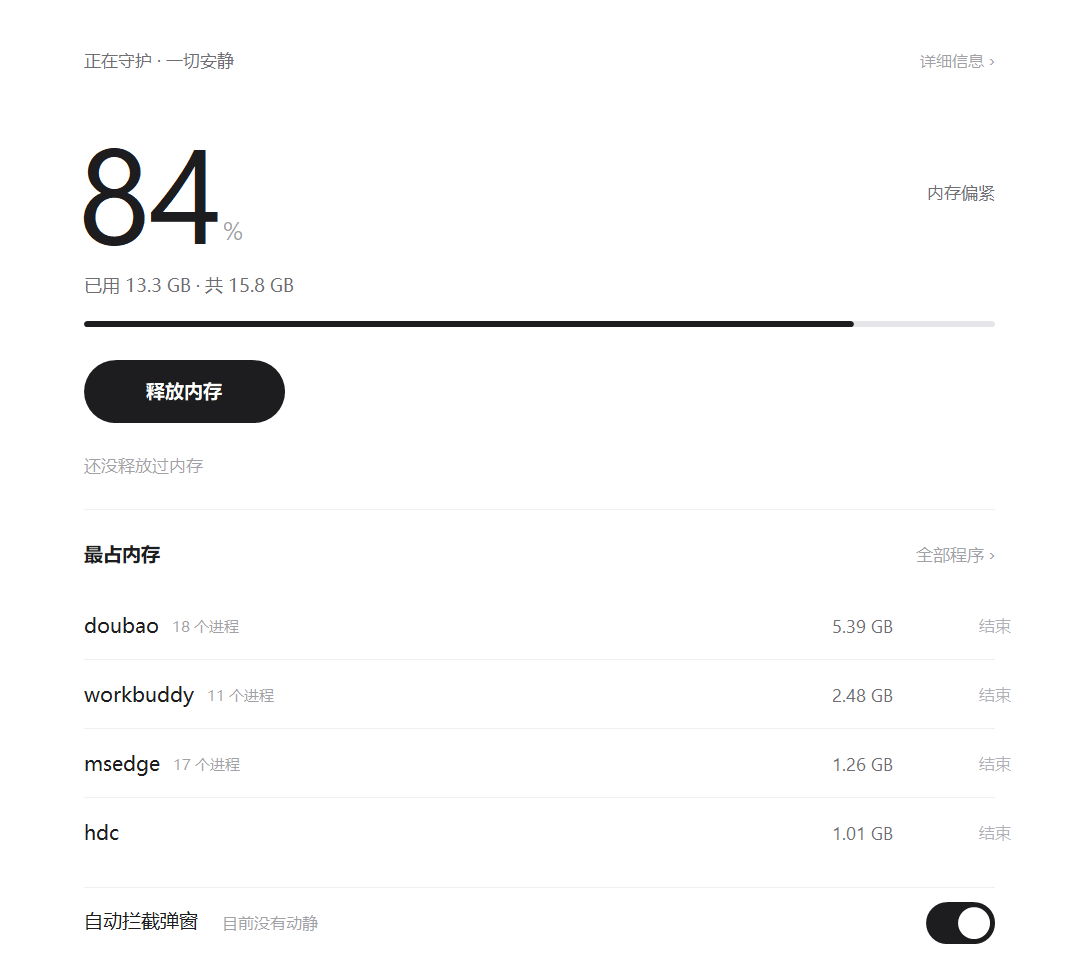
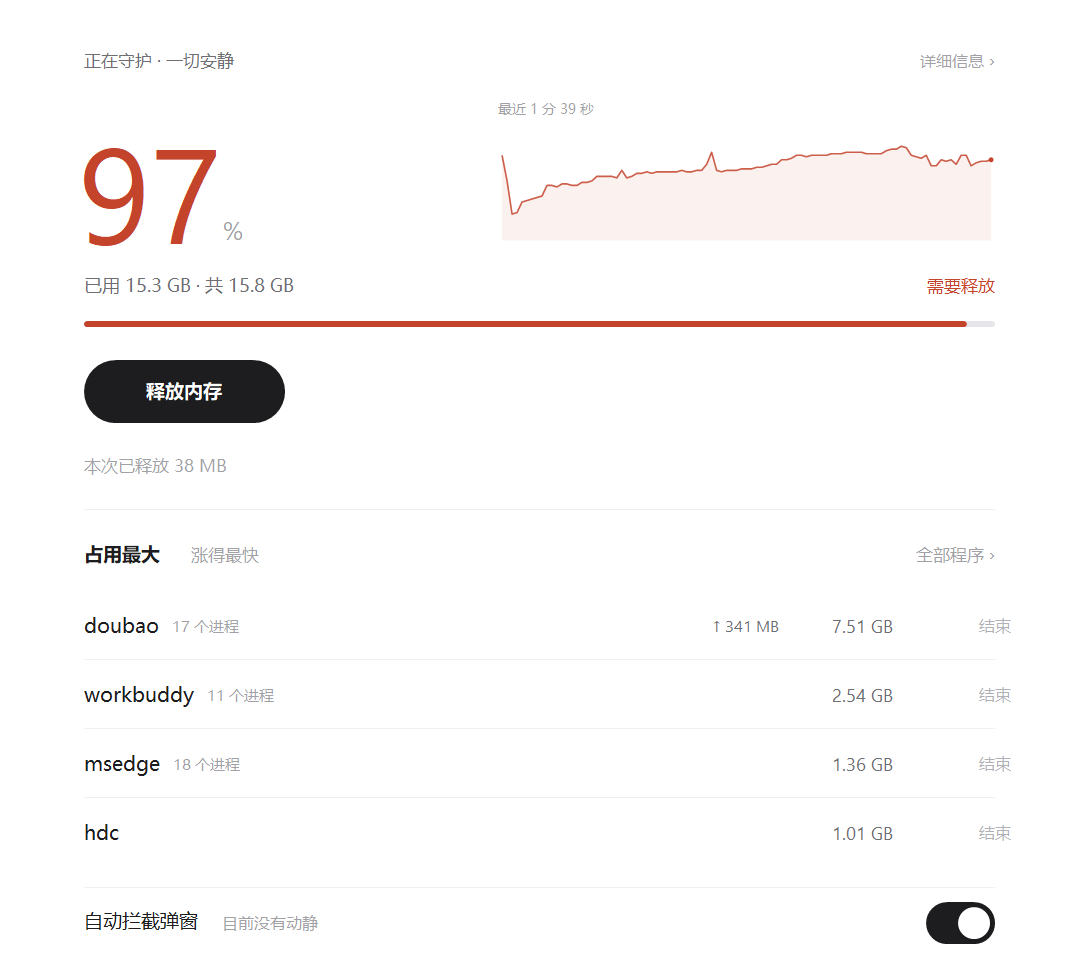
主界面加入内存走势与程序增量
- 大数字右侧新增最近 5 分钟走势图（GDI+ 折线 + 淡填充 + 末端点），
  采样队列从 90 个点扩到 300 个（每秒一个），不满 5 分钟时标签如实显示已采时长
- 每 30 秒记录一次各程序占用，算出 5 分钟内增量；涨超 100 MB 的行标出「↑」，
  超过 500 MB 转砖红
- 程序列表标题改为「占用最大 / 涨得最快」两个可点选项，后者按增量排序
- 走势图不走图片缓存（数据每秒都在变，会挤掉按钮等固定图）

diff --git a/memory_guard.py b/memory_guard.py
@@ -881,6 +881,7 @@ if _gpdll is not None:
     _sig("GdipSetCompositingMode", [_VOIDP, ctypes.c_int])
     _sig("GdipCreatePath", [ctypes.c_int, _OUTP])
     _sig("GdipAddPathArc", [_VOIDP] + [_REAL] * 6)
+    _sig("GdipAddPathLine", [_VOIDP] + [_REAL] * 4)
     _sig("GdipAddPathRectangle", [_VOIDP] + [_REAL] * 4)
     _sig("GdipClosePathFigure", [_VOIDP])
     _sig("GdipDeletePath", [_VOIDP])
@@ -1007,6 +1008,21 @@ def _aa(w, h, bg, paint, key):
     return img
 
 
+def _aa_free(w, h, bg, paint):
+    """不走缓存的一张图。
+
+    走势曲线每秒都在变，塞进 LRU 只会把按钮、开关那些固定图挤出去，
+    所以曲线自己拿着引用，画完就换新的。
+    """
+    rows = _gp_rows(w, h, bg, paint)
+    if not rows:
+        return None
+    try:
+        return tk.PhotoImage(data=base64.b64encode(_png_rgb(w, h, rows)).decode("ascii"))
+    except Exception:
+        return None
+
+
 def _round_path(x, y, w, h, r):
     """四段 90° 圆弧拼出的圆角矩形，半径自动收敛到短边一半。"""
     if r * 2 > min(w, h):
@@ -1050,6 +1066,72 @@ def _stroke_round(gfx, x, y, w, h, r, color, width):
         _GPF["GdipDrawPath"](gfx, pen, path)
         _GPF["GdipDeletePen"](pen)
     _GPF["GdipDeletePath"](path)
+
+
+def _path_new():
+    p = ctypes.c_void_p()
+    if _GPF["GdipCreatePath"](0, ctypes.byref(p)) != 0:
+        return None
+    return p
+
+
+def _spark(gfx, w, h, vals, lo, hi, color, pen_w=1.6, slots=None):
+    """走势折线：极淡的面积 + 一条线 + 末端一个点。
+
+    vals 按时间从旧到新；y 轴范围由调用方给定（lo..hi），
+    这样同一条曲线在两张图之间可比——自动拉伸会把 3% 的波动画成悬崖。
+
+    slots 是完整窗口的格数。刚启动时只有几个点，按格数排到最右边，
+    曲线会随着时间从右往左长出来，而不是把 3 个点拉满整幅、假装已经采了 5 分钟。
+    """
+    n = len(vals)
+    if n < 2 or hi <= lo:
+        return
+    dot = max(1.6, pen_w * 1.5)
+    pad_x = dot + 1.5                       # 末端圆点要留出半径，否则被图边裁掉
+    pad_y = pen_w + 1.0
+    bottom = h - pad_y
+    top = pad_y
+    span = hi - lo
+    slots = max(n, int(slots or n))
+    x0 = pad_x + (w - 2 * pad_x) * (slots - n) / max(1, slots - 1)
+    step = (w - 2 * pad_x) / max(1, slots - 1)
+    pts = []
+    for i, v in enumerate(vals):
+        x = x0 + step * i
+        y = bottom - (min(max(v, lo), hi) - lo) / span * (bottom - top)
+        pts.append((x, y))
+
+    # 面积：从左下起、沿折线上行、落到右下闭合
+    area = _path_new()
+    if area is not None:
+        _GPF["GdipAddPathLine"](area, pts[0][0], bottom, pts[0][0], pts[0][1])
+        for (xa, ya), (xb, yb) in zip(pts, pts[1:]):
+            _GPF["GdipAddPathLine"](area, xa, ya, xb, yb)
+        _GPF["GdipAddPathLine"](area, pts[-1][0], pts[-1][1], pts[-1][0], bottom)
+        _GPF["GdipClosePathFigure"](area)
+        brush = ctypes.c_void_p()
+        if _GPF["GdipCreateSolidFill"](_argb(color, 18),
+                                       ctypes.byref(brush)) == 0:
+            _GPF["GdipFillPath"](gfx, brush, area)
+            _GPF["GdipDeleteBrush"](brush)
+        _GPF["GdipDeletePath"](area)
+
+    line = _path_new()
+    if line is None:
+        return
+    for (xa, ya), (xb, yb) in zip(pts, pts[1:]):
+        _GPF["GdipAddPathLine"](line, xa, ya, xb, yb)
+    pen = ctypes.c_void_p()
+    if _GPF["GdipCreatePen1"](_argb(color, 215), float(pen_w), 2,
+                              ctypes.byref(pen)) == 0:
+        _GPF["GdipSetPenLineJoin"](pen, 2)
+        _GPF["GdipDrawPath"](gfx, pen, line)
+        _GPF["GdipDeletePen"](pen)
+    _GPF["GdipDeletePath"](line)
+
+    _fill_round(gfx, pts[-1][0] - dot, pts[-1][1] - dot, 2 * dot, 2 * dot,
+                dot, color)
 
 
 # ---------------------------------------------------------------- 圆角控件
@@ -1341,7 +1423,14 @@ class GuardApp:
         self.cfg = load_config()
         self.self_pid = os.getpid()
         self.q: queue.Queue = queue.Queue()
-        self.history = collections.deque([0.0] * 90, maxlen=90)
+        # 每秒一个点，300 个正好 5 分钟
+        self.history = collections.deque([0.0] * 300, maxlen=300)
+        self._hist_n = 0                  # 已经采到的真实样本数（前面都是占位 0）
+        self._groups: list[dict] = []     # 全部程序，未截断
+        self._priv_hist: dict = {}        # 程序名 -> deque[(时刻, MB)]
+        self.sort_mode = "size"           # size = 占用最大，grow = 涨得最快
+        self._sort_boxes: list = []
+        self._spark_img = None
         self.procs: list[dict] = []
         self.stats = {"killed": 0, "freed_mb": 0.0}
         self.logs = collections.deque(maxlen=600)
@@ -1455,6 +1544,7 @@ class GuardApp:
     def _on_tick(self, msg):
         self.mem = msg["mem"]
         self.history.append(self.mem["percent"])
+        self._hist_n = min(self._hist_n + 1, self.history.maxlen or 90)
         self.stats = msg.get("stats", self.stats)
         if msg.get("procs") is not None:
             self._all_procs = msg["procs"]
@@ -1465,10 +1555,46 @@ class GuardApp:
                 g = groups.setdefault(p["name"], {"name": p["name"], "priv": 0, "pids": []})
                 g["priv"] += p["priv"]
                 g["pids"].append(p["pid"])
-            self.procs = sorted(groups.values(), key=lambda g: g["priv"], reverse=True)[:4]
+            self._groups = list(groups.values())
+            self._track_growth(time.time())
+            self._resort()
         self.draw()
         if self.adv is not None:
             self._refresh_advanced()
+
+    GROW_WIN = 300.0        # 看最近 5 分钟
+    GROW_STEP = 30.0        # 每 30 秒记一个点
+
+    def _track_growth(self, now):
+        """给每个程序记一条内存时间线，算出窗口内的增量。
+
+        只存 14 个点、每个 30 秒，占不了多少内存；退出的程序立刻清掉。
+        """
+        hist = self._priv_hist
+        for g in self._groups:
+            d = hist.get(g["name"])
+            if d is None:
+                d = hist[g["name"]] = collections.deque(maxlen=14)
+            mb = g["priv"] / 1048576.0
+            if not d or now - d[-1][0] >= self.GROW_STEP:
+                d.append((now, mb))
+            while len(d) > 1 and now - d[0][0] > self.GROW_WIN:
+                d.popleft()
+            first = d[0] if d else None
+            # 观察不足 1 分钟不给结论，否则程序刚启动时的抖动会被读成「暴涨」
+            g["grow"] = (mb - first[1]) if (first and now - first[0] >= 60) else 0.0
+        alive = {g["name"] for g in self._groups}
+        for name in [k for k in hist if k not in alive]:
+            hist.pop(name, None)
+
+    def _resort(self):
+        if self.sort_mode == "grow":
+            rows = sorted(self._groups,
+                          key=lambda g: (g.get("grow", 0.0), g["priv"]),
+                          reverse=True)
+        else:
+            rows = sorted(self._groups, key=lambda g: g["priv"], reverse=True)
+        self.procs = rows[:4]
 
     def _tick_ui(self):
         self.draw()
@@ -1528,8 +1654,36 @@ class GuardApp:
         cv.create_text(self.sz(L) + wn - self.sz(3), self.sz(153), text="%",
                        anchor="w", fill=FAINT, font=self.fnum(17))
 
+        # ---------------- 最近 5 分钟走势：大数字右边那块空白正好放下
+        data = list(self.history)[-self._hist_n:] if self._hist_n >= 3 else []
+        if data:
+            lo, hi = min(data), max(data)
+            if hi - lo < 8:                 # 太平就撑到 8 个点，别把噪声画成悬崖
+                mid = (hi + lo) / 2.0
+                lo, hi = mid - 4, mid + 4
+            else:
+                lo, hi = lo - 1, hi + 1
+            lo, hi = max(0.0, lo), min(100.0, hi)
+            # 采样是每秒一个点，所以已采点数就是覆盖的秒数；不满 5 分钟就说实话
+            span_s = self._hist_n
+            label = ("最近 5 分钟" if span_s >= 300 else
+                     (f"最近 {span_s // 60} 分 {span_s % 60} 秒" if span_s >= 60
+                      else f"最近 {span_s} 秒"))
+            cv.create_text(self.sz(332), self.sz(72), text=label, anchor="w",
+                           fill=FAINT, font=self.fn(10))
+            px1, py1 = int(round(self.sz(332))), int(round(self.sz(78)))
+            px2, py2 = int(round(self.sz(R))), int(round(self.sz(162)))
+            color = RED if hot_pct else INK
+            img = _aa_free(px2 - px1, py2 - py1, BG,
+                           lambda g, bw=px2 - px1, bh=py2 - py1:
+                           _spark(g, bw, bh, data, lo, hi, color,
+                                  max(1.4, 1.1 * self.S)))
+            if img is not None:
+                self._spark_img = img
+                cv.create_image(px1, py1, image=img, anchor="nw")
+
         verdict = "内存充足" if pct < 70 else ("内存偏紧" if pct < 85 else "需要释放")
-        cv.create_text(self.sz(R), self.sz(128), text=verdict, anchor="e",
+        cv.create_text(self.sz(R), self.sz(190), text=verdict, anchor="e",
                        fill=RED if hot_pct else SUB, font=self.fn(11.5))
 
         cv.create_text(self.sz(L), self.sz(190),
@@ -1582,8 +1736,18 @@ class GuardApp:
         cv.create_line(self.sz(L), self.sz(340), self.sz(R), self.sz(340),
                        fill=HAIR_LINE, width=1)
 
-        cv.create_text(self.sz(L), self.sz(370), text="最占内存", anchor="w",
-                       fill=INK, font=self.fn(13, "bold"))
+        # 两个视角：现在谁占得多，和这五分钟谁在涨。后者才是找泄漏用的
+        x = L
+        self._sort_boxes = []
+        for key, text in (("size", "占用最大"), ("grow", "涨得最快")):
+            on = self.sort_mode == key
+            hot_ = f"sort:{key}" in self.hover_parts
+            fnt = self.fn(13, "bold") if on else self.fn(12)
+            cv.create_text(self.sz(x), self.sz(370), text=text, anchor="w",
+                           fill=INK if on else (SUB if hot_ else FAINT), font=fnt)
+            tw_ = tkfont.Font(font=fnt).measure(text) / self.S
+            self._sort_boxes.append((key, x - 4, x + tw_ + 4))
+            x += tw_ + 18
         all_hot = "all" in self.hover_parts
         cv.create_text(self.sz(R), self.sz(370), text="全部程序 ›", anchor="e",
                        fill=INK if all_hot else FAINT, font=self.fn(11.5), tags=("all",))
@@ -1652,6 +1816,13 @@ class GuardApp:
                            text=f"{n} 个进程", anchor="w", fill=FAINT,
                            font=self.fn(10.5))
 
+        # 增量放在大小左边，只在涨得够明显时才出现——每行都挂个 +0 MB 只是噪音
+        grow = p.get("grow", 0.0)
+        if grow >= 100:
+            cv.create_text(self.sz(520), self.sz(cy), text=f"↑ {_gb(grow)}",
+                           anchor="e", font=self.fnum(11),
+                           fill=RED if grow >= 500 else SUB)
+
         cv.create_text(self.sz(596), self.sz(cy), text=_gb(p["priv"] / 1024 / 1024),
                        anchor="e", fill=SUB, font=self.fnum(12.5))
 
@@ -1674,6 +1845,10 @@ class GuardApp:
             return "btn"
         if 580 <= x <= 672 and 356 <= y <= 384:
             return "all"
+        if 356 <= y <= 384:
+            for key, x1, x2 in self._sort_boxes:
+                if x1 <= x <= x2:
+                    return f"sort:{key}"
         if 44 <= x <= 676 and 394 <= y <= 578:
             idx = int((y - 394) // 46)
             if 0 <= idx < min(len(self.procs), 4):
@@ -1690,6 +1865,8 @@ class GuardApp:
         parts, row, chip = set(), -1, -1
         if hit in ("btn", "adv", "all", "toggle"):
             parts.add(hit)
+        elif hit.startswith("sort:"):
+            parts.add(hit)
         elif hit.startswith("chip:"):
             row = int(hit.split(":")[1])
             chip = row
@@ -1700,7 +1877,8 @@ class GuardApp:
                    or chip != self.hover_chip)
         self.hover_parts, self.hover_row, self.hover_chip = parts, row, chip
         if changed:
-            clickable = hit in ("btn", "adv", "all", "toggle") or hit.startswith("chip:")
+            clickable = (hit in ("btn", "adv", "all", "toggle")
+                         or hit.startswith("chip:") or hit.startswith("sort:"))
             self.cv.configure(cursor="hand2" if clickable else "arrow")
             self.draw()
 
@@ -1715,6 +1893,12 @@ class GuardApp:
             self._do_toggle()
         elif hit == "adv" or hit == "all":
             self.open_advanced()
+        elif hit.startswith("sort:"):
+            key = hit.split(":")[1]
+            if key != self.sort_mode:
+                self.sort_mode = key
+                self._resort()
+                self.draw()
         elif hit.startswith("chip:"):
             idx = int(hit.split(":")[1])
             if idx < len(self.procs):

diff --git a/README.en.md b/README.en.md
@@ -9,6 +9,7 @@ Pure standard library: `ctypes` against Win32, `tkinter` for the UI. No `pip ins
 ## What it does
 
 - **Merges processes by program.** Eighteen `doubao.exe` become one row labelled "18 processes".
+- **Trend, not just a snapshot.** A 5-minute line chart sits next to the big number, and the list can be sorted by size or by growth, with each row showing how much it gained in five minutes.
 - **Frees memory without closing anything.** Moves background working sets to disk (`EmptyWorkingSet`). Run as administrator to also purge the standby list.
 - **Auto-frees above a threshold** — 85% by default, 120 s cooldown.
 - **Closes known promo processes**: ads, tips, updaters, background helpers. Main applications are never in the rule list.

diff --git a/README.md b/README.md
@@ -14,6 +14,7 @@ Windows 上的单文件内存监控工具。看物理内存占用、按需回收
 ## 功能
 
 - **按程序合并进程**：十八个 `doubao.exe` 合成一行，标着「18 个进程」。
+- **看走势，也看增量**：右上角是最近 5 分钟的曲线；列表可在「占用最大 / 涨得最快」之间切换，涨得明显的行会标出五分钟涨了多少。
 - **释放内存，不关程序**：把后台进程的工作集移到硬盘（`EmptyWorkingSet`）。以管理员身份运行可额外清空待命列表。
 - **超过阈值自动释放**：默认 85%，冷却 120 秒。
 - **关闭已知推广进程**：广告、推送、更新、后台助手。软件主程序不在规则里。
